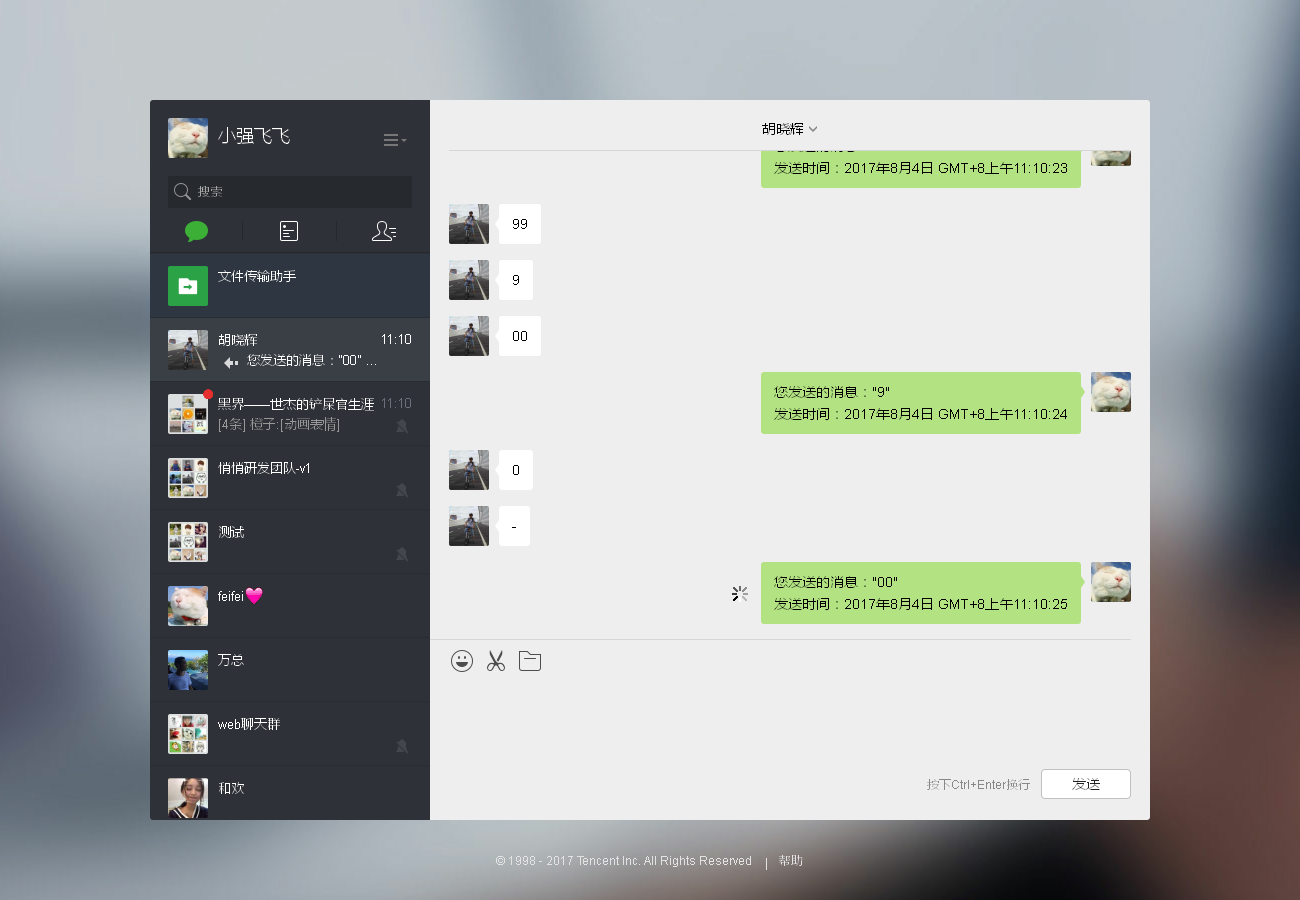
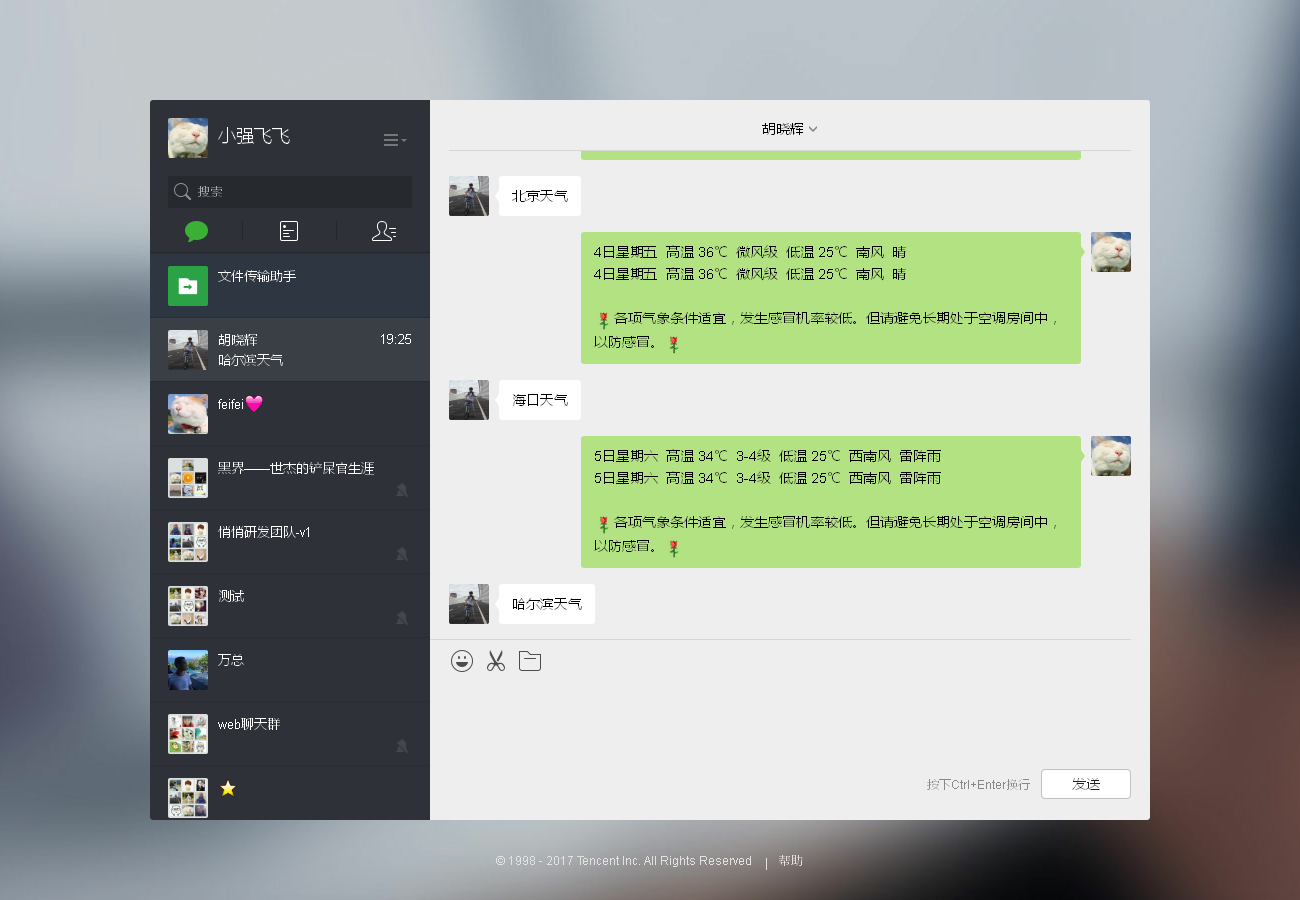
完成重构&完成天气指令

diff --git a/src/directive/fuzzy.js b/src/directive/fuzzy.js
@@ -1,25 +1,32 @@
+var message = require('../lib/message');
+
 module.exports = {
-    '/天气/': function(msgContent, message, casperIns){
+    '/天气/': function(msgContent, casperIns){
         var local = msgContent.replace(/ |天气/,'');
         var resource = 'http://wthrcdn.etouch.cn/weather_mini?city=' + encodeURIComponent(local);
 
         //在页面使用ajax请求
-        var data = this.evaluate(function (resource) {
+        var data = casperIns.evaluate(function (resource) {
             $.get(resource, function (data) {window.to_casper_weather = data;})
         }, resource);
 
-        this.waitFor(function checkWeather() {
-            return this.evaluate(function () {
+        casperIns.waitFor(function checkWeather() {
+            return casperIns.evaluate(function () {
                 return window.to_casper_weather
             })
         }, function () {
-            var weather = JSON.parse(this.evaluate(function () {
-                return window.to_casper_weather
+            var weather = JSON.parse(casperIns.evaluate(function () {
+                var weather = window.to_casper_weather;
+                window.to_casper_weather = null;
+                return weather;
             }))
+            casperIns.evaluate(function () {
+                return window.to_casper_weather=null
+            })
             if(weather.status==1000){
-                message.send(formatWeather(weather)) 
+                message.send(casperIns, 'local天气：\n\r' + formatWeather(weather)) 
             }else{
-                message.send('未查找到相关天气信息。请尝试输入格式如"广州天气"。') 
+                message.send(casperIns, '未查找到相关天气信息。请尝试输入格式如"广州天气"。') 
             }
             
         }, function () {
@@ -27,21 +34,22 @@ module.exports = {
         }, 10000)
     },
 
-    '/火车票/': function(msgContent, message, casperIns){
-        message.send('此指令正在开发...') 
+    '/火车票/': function(msgContent, casperIns){
+        message.send(casperIns, '此指令正在开发...'); 
     },
 
-    '/彩票/': function(msgContent, message, casperIns){
-        message.send('此指令正在开发...') 
+    '/彩票/': function(msgContent, casperIns){
+        message.send(casperIns, '此指令正在开发...');
     }
 }
 
 
 
 function formatWeather(weather){
-    var weather = typeof(weather) == 'Object'? weather: JSON.parse(weather);
+    // console.log(JSON.stringify(weather));
+    // var weather = typeof(weather) == 'Object'? weather: JSON.parse(weather);
+    weather = weather.data;
     var str = '';
-
     for(var i in weather.forecast[0]){
         if(i == 'data'){
             str += weather.forecast[0][i] + "\n\r";
@@ -54,13 +62,14 @@ function formatWeather(weather){
 
     for(var i in weather.forecast[1]){
         if(i == 'data'){
-            str += weather.forecast[0][i] + "\n\r";
+            str += weather.forecast[1][i] + "\n\r";
         }else{
-            str += weather.forecast[0][i] + '  '
+            str += weather.forecast[1][i] + '  '
         }
     }
 
     if(weather.ganmao){
         str+='\n\r\n\r[玫瑰]' + weather.ganmao + '[玫瑰]';
     }
+    return str;
 }

diff --git a/src/lib/searchWx.js b/src/lib/searchWx.js
@@ -1,30 +1,33 @@
 /*搜索目标微信*/
 var WXDOM = require('../../config/wxDom');
 
-var searchWx = function(casperIns, wxNick){
+var searchWx = function (casperIns, wxNick) {
     var ts = casperIns;
 
     ts.waitForSelector(WXDOM.SEARCH_INPUT, function () {
         ts.echo('好友搜索框已加载！');
         ts.sendKeys(WXDOM.SEARCH_INPUT, CONST.TARGET_NICK);
         ts.captureSelector('./static/img/SEARCH_INPUT.png', 'html');
-    });
+    }, function () {
+        ts.echo('好友搜索框加载超时！')
+    }, 30 * 1000);
 
     // ts.waitForSelector(WXDOM.SEARCH_RESULT, function(){
-        
-        ts.waitForSelector(WXDOM.SEARCH_RESULT_FRIEND, function () {
-            ts.waitForText(CONST.TARGET_NICK, function () {
-                ts.echo('已加载搜索结果：./static/img/SEARCH_RESULT.png');
-                ts.click(WXDOM.SEARCH_RESULT_ONE);
-                ts.captureSelector('./static/img/SEARCH_RESULT.png', 'html');
-            }), function () {
-                ts.echo('搜索结果未出现匹配的好友..请检查目标微信号昵称是否好友', 'ERROR');
-                ts.exit();
-            }, 10 * 1000;
-        }, function () {
-            ts.echo('搜索结果为零，请确认目标微信号昵称是否在您的联系人列表中', 'ERROR');
+
+    ts.waitForSelector(WXDOM.SEARCH_RESULT_FRIEND, function () {
+        ts.waitForText(CONST.TARGET_NICK, function () {
+            ts.echo('已加载搜索结果：./static/img/SEARCH_RESULT.png');
+            ts.click(WXDOM.SEARCH_RESULT_ONE);
+            ts.captureSelector('./static/img/SEARCH_RESULT.png', 'html');
+        }), function () {
+            ts.echo('搜索结果未出现匹配的好友..请检查目标微信号昵称是否好友', 'ERROR');
             ts.exit();
-        })
+        }, 10 * 1000;
+    }, function () {
+        ts.captureSelector('./static/img/SEARCH_RESULT_0.png', 'html');
+        ts.echo('搜索结果为零，请确认目标微信号昵称是否在您的联系人列表中', 'ERROR');
+        ts.exit();
+    }, 30 * 1000)
 
     // })
 };

diff --git a/src/lib/machine.js b/src/lib/machine.js
@@ -6,29 +6,32 @@ var fuzzyDirective = require('../directive/fuzzy');
 var machine = {};
 
 machine.reply = function(msg, isTextMsg, casperIns){
-    message.init(casper, WXDOM.CHAT_INPUT, WXDOM.CHAT_SEND);
+    console.log('正在处理消息... ');
 
     //非文字类消息
-    if(!isTextMsg) return dealUnknownMsg();
+    if(!isTextMsg) return dealUnknownMsg(casperIns);
 
     //是否是指令
-    if(isDiretive(msg)) return;
+    if(isDiretive(msg, casperIns)) return;
     
-    dealByMachine(msg);
+    //非指令消息处理
+    return dealByMachine(casperIns, msg);
 }
 
 //判断是否是指令
 function isDiretive(msg, casperIns){
     for(var diretive in appDirective){
         if(diretive == msg){
-            appDirective[diretive](msg, message, casperIns);
+            casperIns.echo('接受到系统指令 ' + diretive + ' ，正在处理...');
+            appDirective[diretive](msg, casperIns);
             return true;
         }
     }
 
     for(var diretive in fuzzyDirective){
         if(eval(diretive).test(msg)){
-            fuzzyDirective[diretive](msg, message, casperIns);
+            casperIns.echo('接受到模糊匹配指令 ' + diretive + ' ，正在处理...')
+            fuzzyDirective[diretive](msg, casperIns);
             return true;
         }
     }
@@ -36,10 +39,12 @@ function isDiretive(msg, casperIns){
     return false;
 }
 
-function dealUnknownMsg(){
-    message.send('无法识别您发的消息。' + '\n\r发送时间：' + new Date().toLocaleString());
+function dealUnknownMsg(casperIns){
+    message.send(casperIns, '无法识别您发的消息。' + '\n\r发送时间：' + new Date().toLocaleString());
 }
 
-function dealByMachine(msg){
-    message.send('您发送的消息："' + msg + '"\n\r发送时间：' + new Date().toLocaleString());
+function dealByMachine(casperIns, msg){
+    message.send(casperIns, '您发送的消息："' + msg + '"\n\r发送时间：' + new Date().toLocaleString());
 }
+
+module.exports = machine;

diff --git a/src/lib/listen.js b/src/lib/listen.js
@@ -26,19 +26,12 @@ listen.then = function (casperIns) {
     }, WXDOM.MSG, WXDOM.MSG_TEXT);
 
     if (newMsgContent) {
-        // if (newMsgContent == "关闭") {
-        //     message.send('[玫瑰]感谢您的使用[玫瑰]\n\r([闪电]需要开启请在控制台启动程序[闪电])');
-        //     ts.echo('微信发出关闭口令，程序退出。')
-        //     this.captureSelector('exit.jpg', 'html');
-        //     return ts.exit();
-        // }
         ts.emit('newMsg', newMsgContent, true);
         // message.send('您发送的消息："' + newMsgContent + '"\n\r发送时间：' + new Date().toLocaleString());
     } else {
         ts.emit('newMsg', newMsgContent, false);
         // message.send('无法识别您发的消息。' + '\n\r发送时间：' + new Date().toLocaleString());
     }
-    ts.echo('已回复...\n-----------------------------');
 }
 
 listen.start = function (casperIns) {
@@ -61,9 +54,9 @@ listen.start = function (casperIns) {
 
         }, function then() {
             listen.then(ts);
-            loopListenNewMassage();
+            this.wait(10, loopListenNewMassage);
 
-        }, function timeout() { }, Number.POSITIVE_INFINITY);
+        }, function timeout() { }, 1000 * 60 * 60 * 24 * 365);
     }
 
     loopListenNewMassage();

diff --git a/index.js b/index.js
@@ -21,9 +21,14 @@ casper.then(function () {
 
 // 等待加载聊天信息，// 搜索目标微信号
 
-casper.waitWhileVisible(WXDOM.LOGIN_LOADING, function () {
-    this.echo("加载最近聊天信息完毕！");
-    searchWx(this, CONST.TARGET_NICK)
+casper.then(function () {
+    casper.waitWhileVisible(WXDOM.LOGIN_LOADING, function () {
+        this.echo("加载最近聊天信息完毕！");
+        searchWx(this, CONST.TARGET_NICK)
+    }, function () {
+        this.echo('加载聊天信息失败!');
+        this.exit();
+    }, 30 * 1000)
 })
 
 // 发送欢迎语
@@ -40,6 +45,9 @@ casper.then(function () {
 casper.on('newMsg', function (msg, isTextMsg) {
     this.echo('触发新文本消息事件，新消息：\n' + msg);
     machine.reply(msg, isTextMsg, this);
+    this.wait(10, function () {
+        this.echo('已回复');
+    })
 })
 
 casper.on('exit', function () {

diff --git a/src/directive/app.js b/src/directive/app.js
@@ -1,10 +1,13 @@
+var message = require('../lib/message');
+
 module.exports = {
-    '-关闭': function(msgContent, message, casperIns){
-        message.send('[玫瑰]感谢您的使用[玫瑰]\n\r([闪电]需要开启请在控制台启动程序[闪电])');
+    '关闭': function (msgContent, casperIns) {
+        message.send(casperIns, '[玫瑰]感谢您的使用[玫瑰]\n\r([闪电]需要开启请在控制台启动程序[闪电])');
         casperIns.echo('微信发出关闭口令，程序退出。')
         return casperIns.exit();
     },
-    '-报时': function(msgContent, message, casperIns){
-        message.send('[玫瑰]感谢您的使用[玫瑰]\n\r([闪电]需要开启请在控制台启动程序[闪电])');
+
+    '报时': function (msgContent, casperIns) {
+        message.send(casperIns, '服务器的时间是：' + new Date().toLocaleString());
     }
 }

diff --git a/config/const.js b/config/const.js
@@ -9,7 +9,7 @@ module.exports = {
     'TARGET_NICK'    : 'feifei',
 
     //打招呼消息
-    'HELLO_WORLD'    : '[闪电]' + ROBOT_NAME + '[闪电]已启动..\n\r\n\r现在的时间是：'+new Date().toLocaleString(),
+    'HELLO_WORLD'    : '[闪电]' + ROBOT_NAME + '[闪电]已启动...\n\r\n\r现在的时间是：'+new Date().toLocaleString(),
 
     //新增消息多少条时机器人开始回复
     'MSG_RESPOND_NUM': 1,

diff --git a/config/capser.js b/config/capser.js
@@ -10,7 +10,7 @@ module.exports =  {
     viewportSize: {width: 1300, height: 900},
     verbose: true,
     // timeout: Number.POSITIVE_INFINITY,
-    waitTimeout: Number.POSITIVE_INFINITY,
+    waitTimeout: 1000 * 60 * 60 * 24 * 365,
     onWaitTimeout: function(){
         console.log( 'waitFor*方法超时...' )
     }

diff --git a/src/lib/hello.js b/src/lib/hello.js
@@ -7,7 +7,7 @@ var hello = function (casperIns) {
     
     ts.waitForSelector(WXDOM.CHAT_INPUT, function () {
         ts.echo('已加载输入框...');
-        message.send(this, CONST.HELLO_WORLD);
+        message.send(ts, CONST.HELLO_WORLD);
         ts.echo('已发送欢迎语...');
     });
 }
